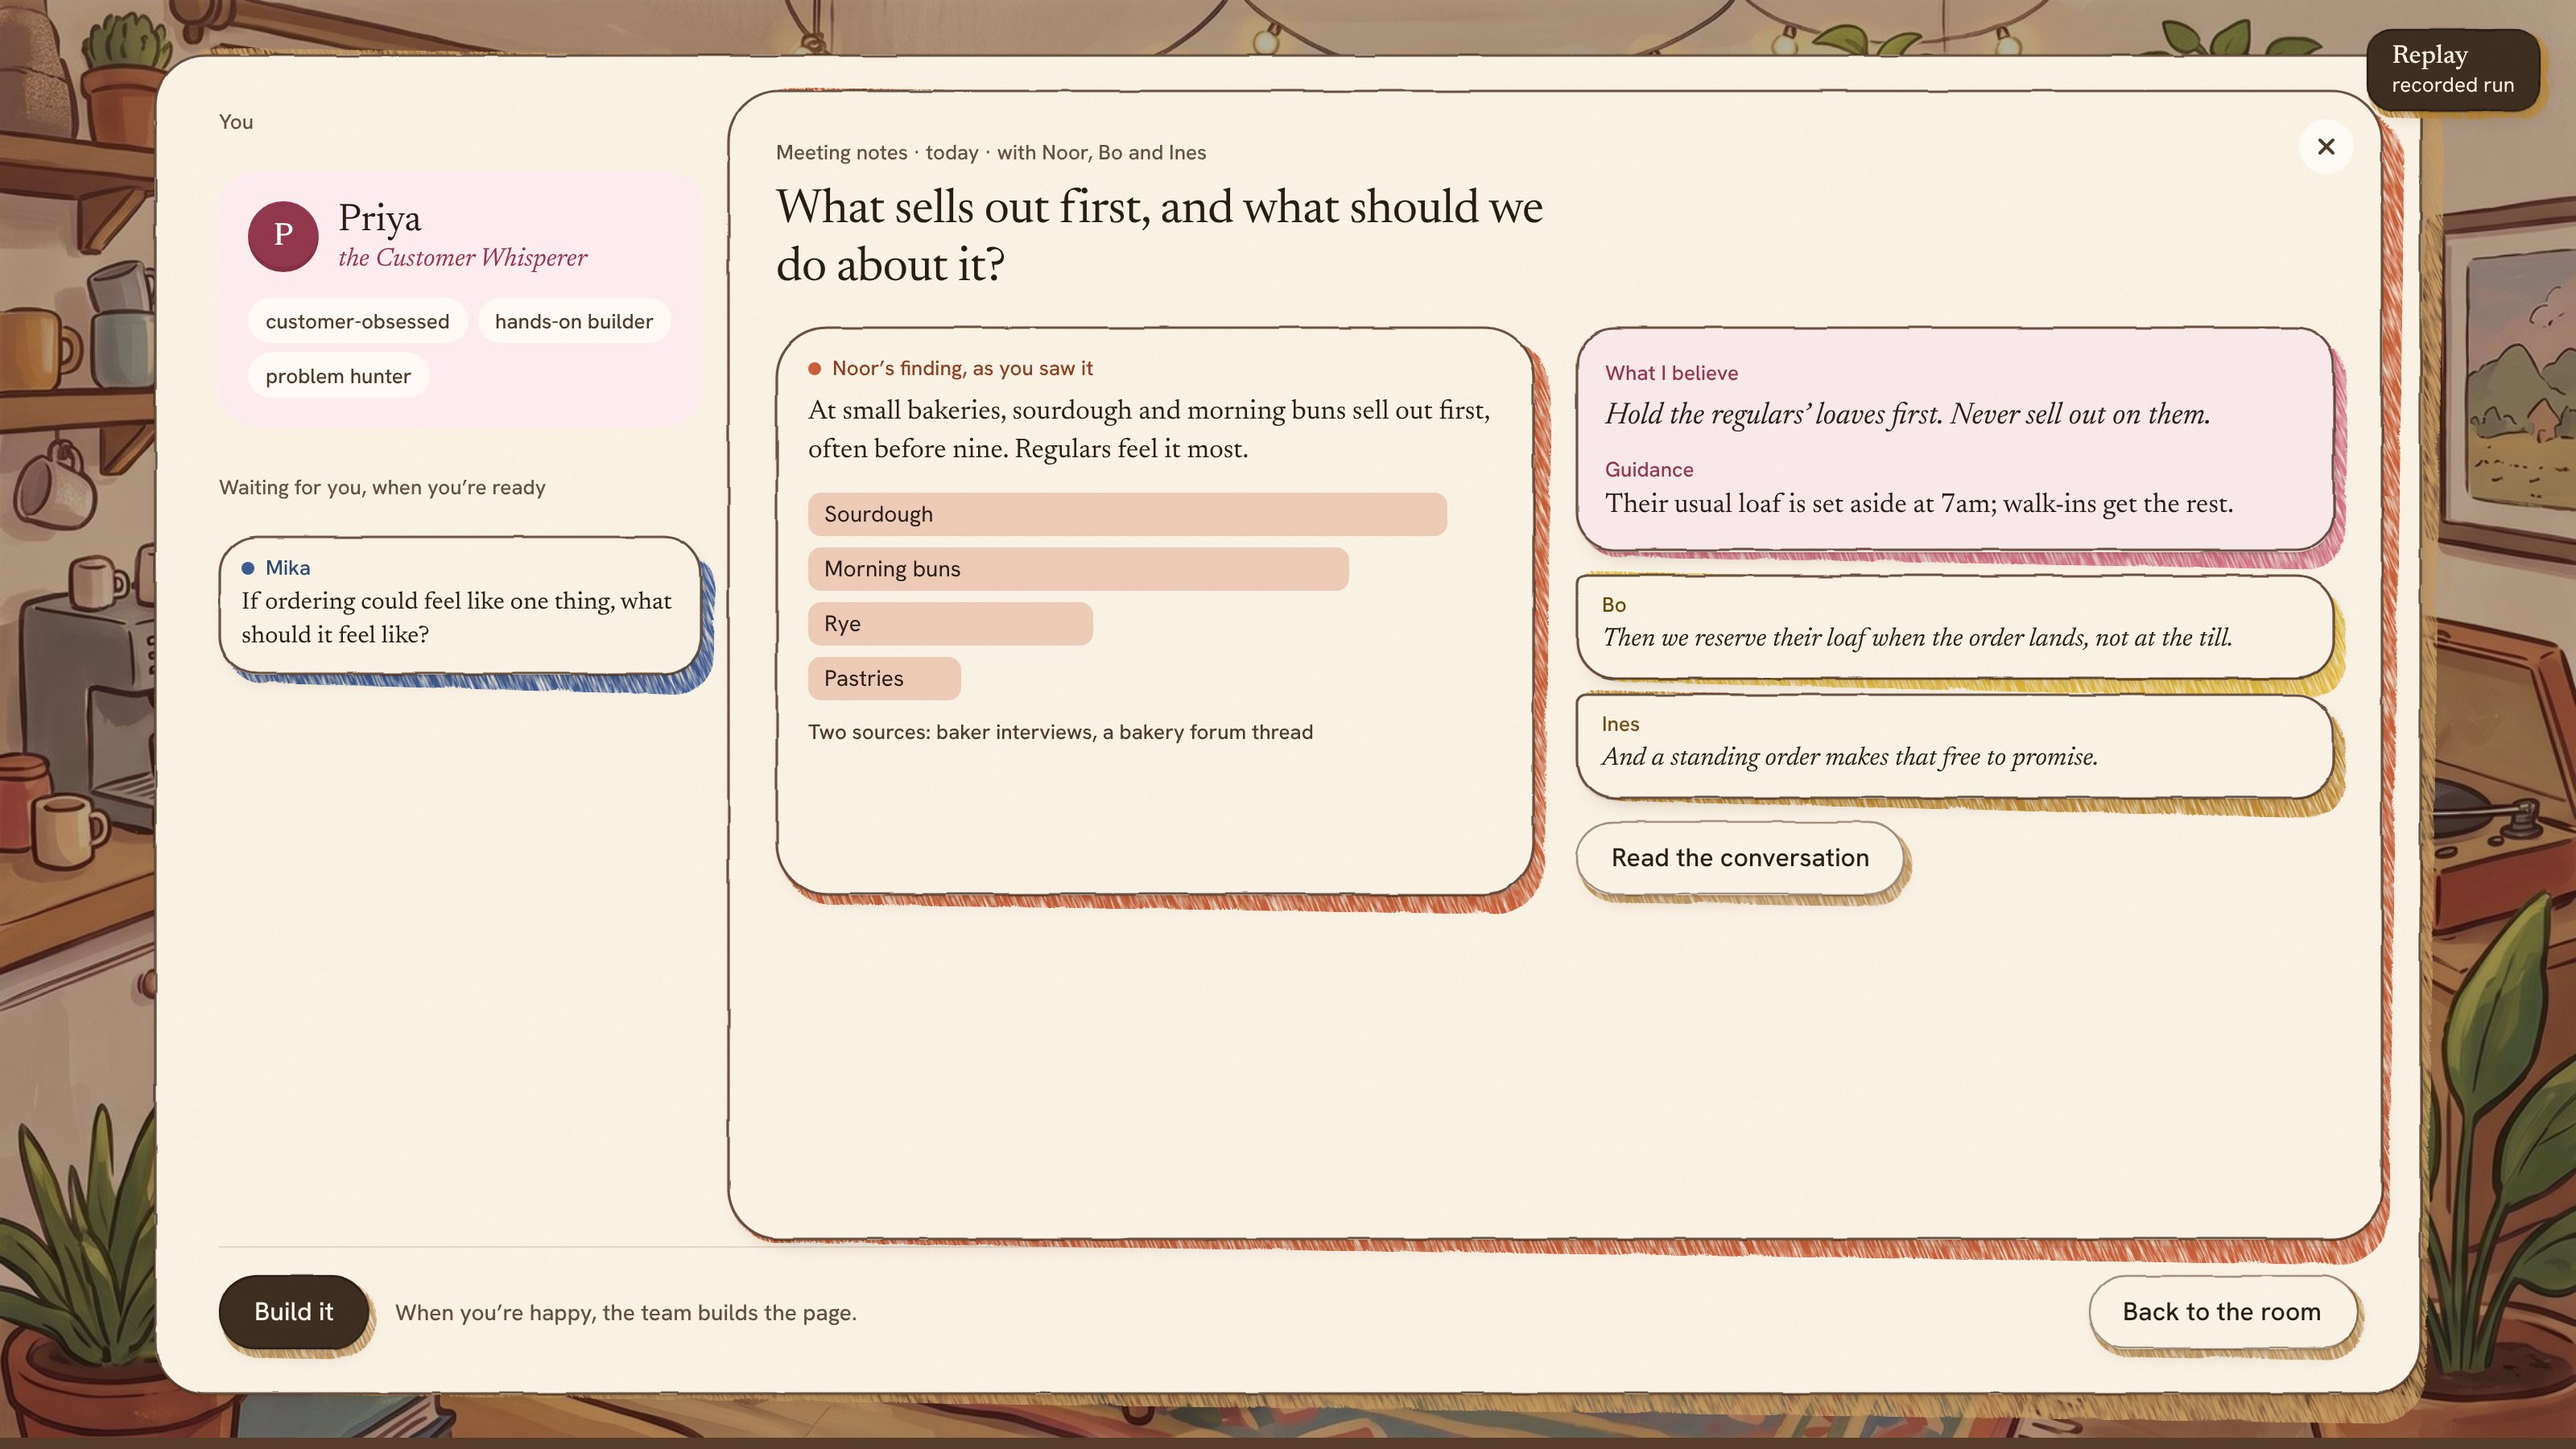
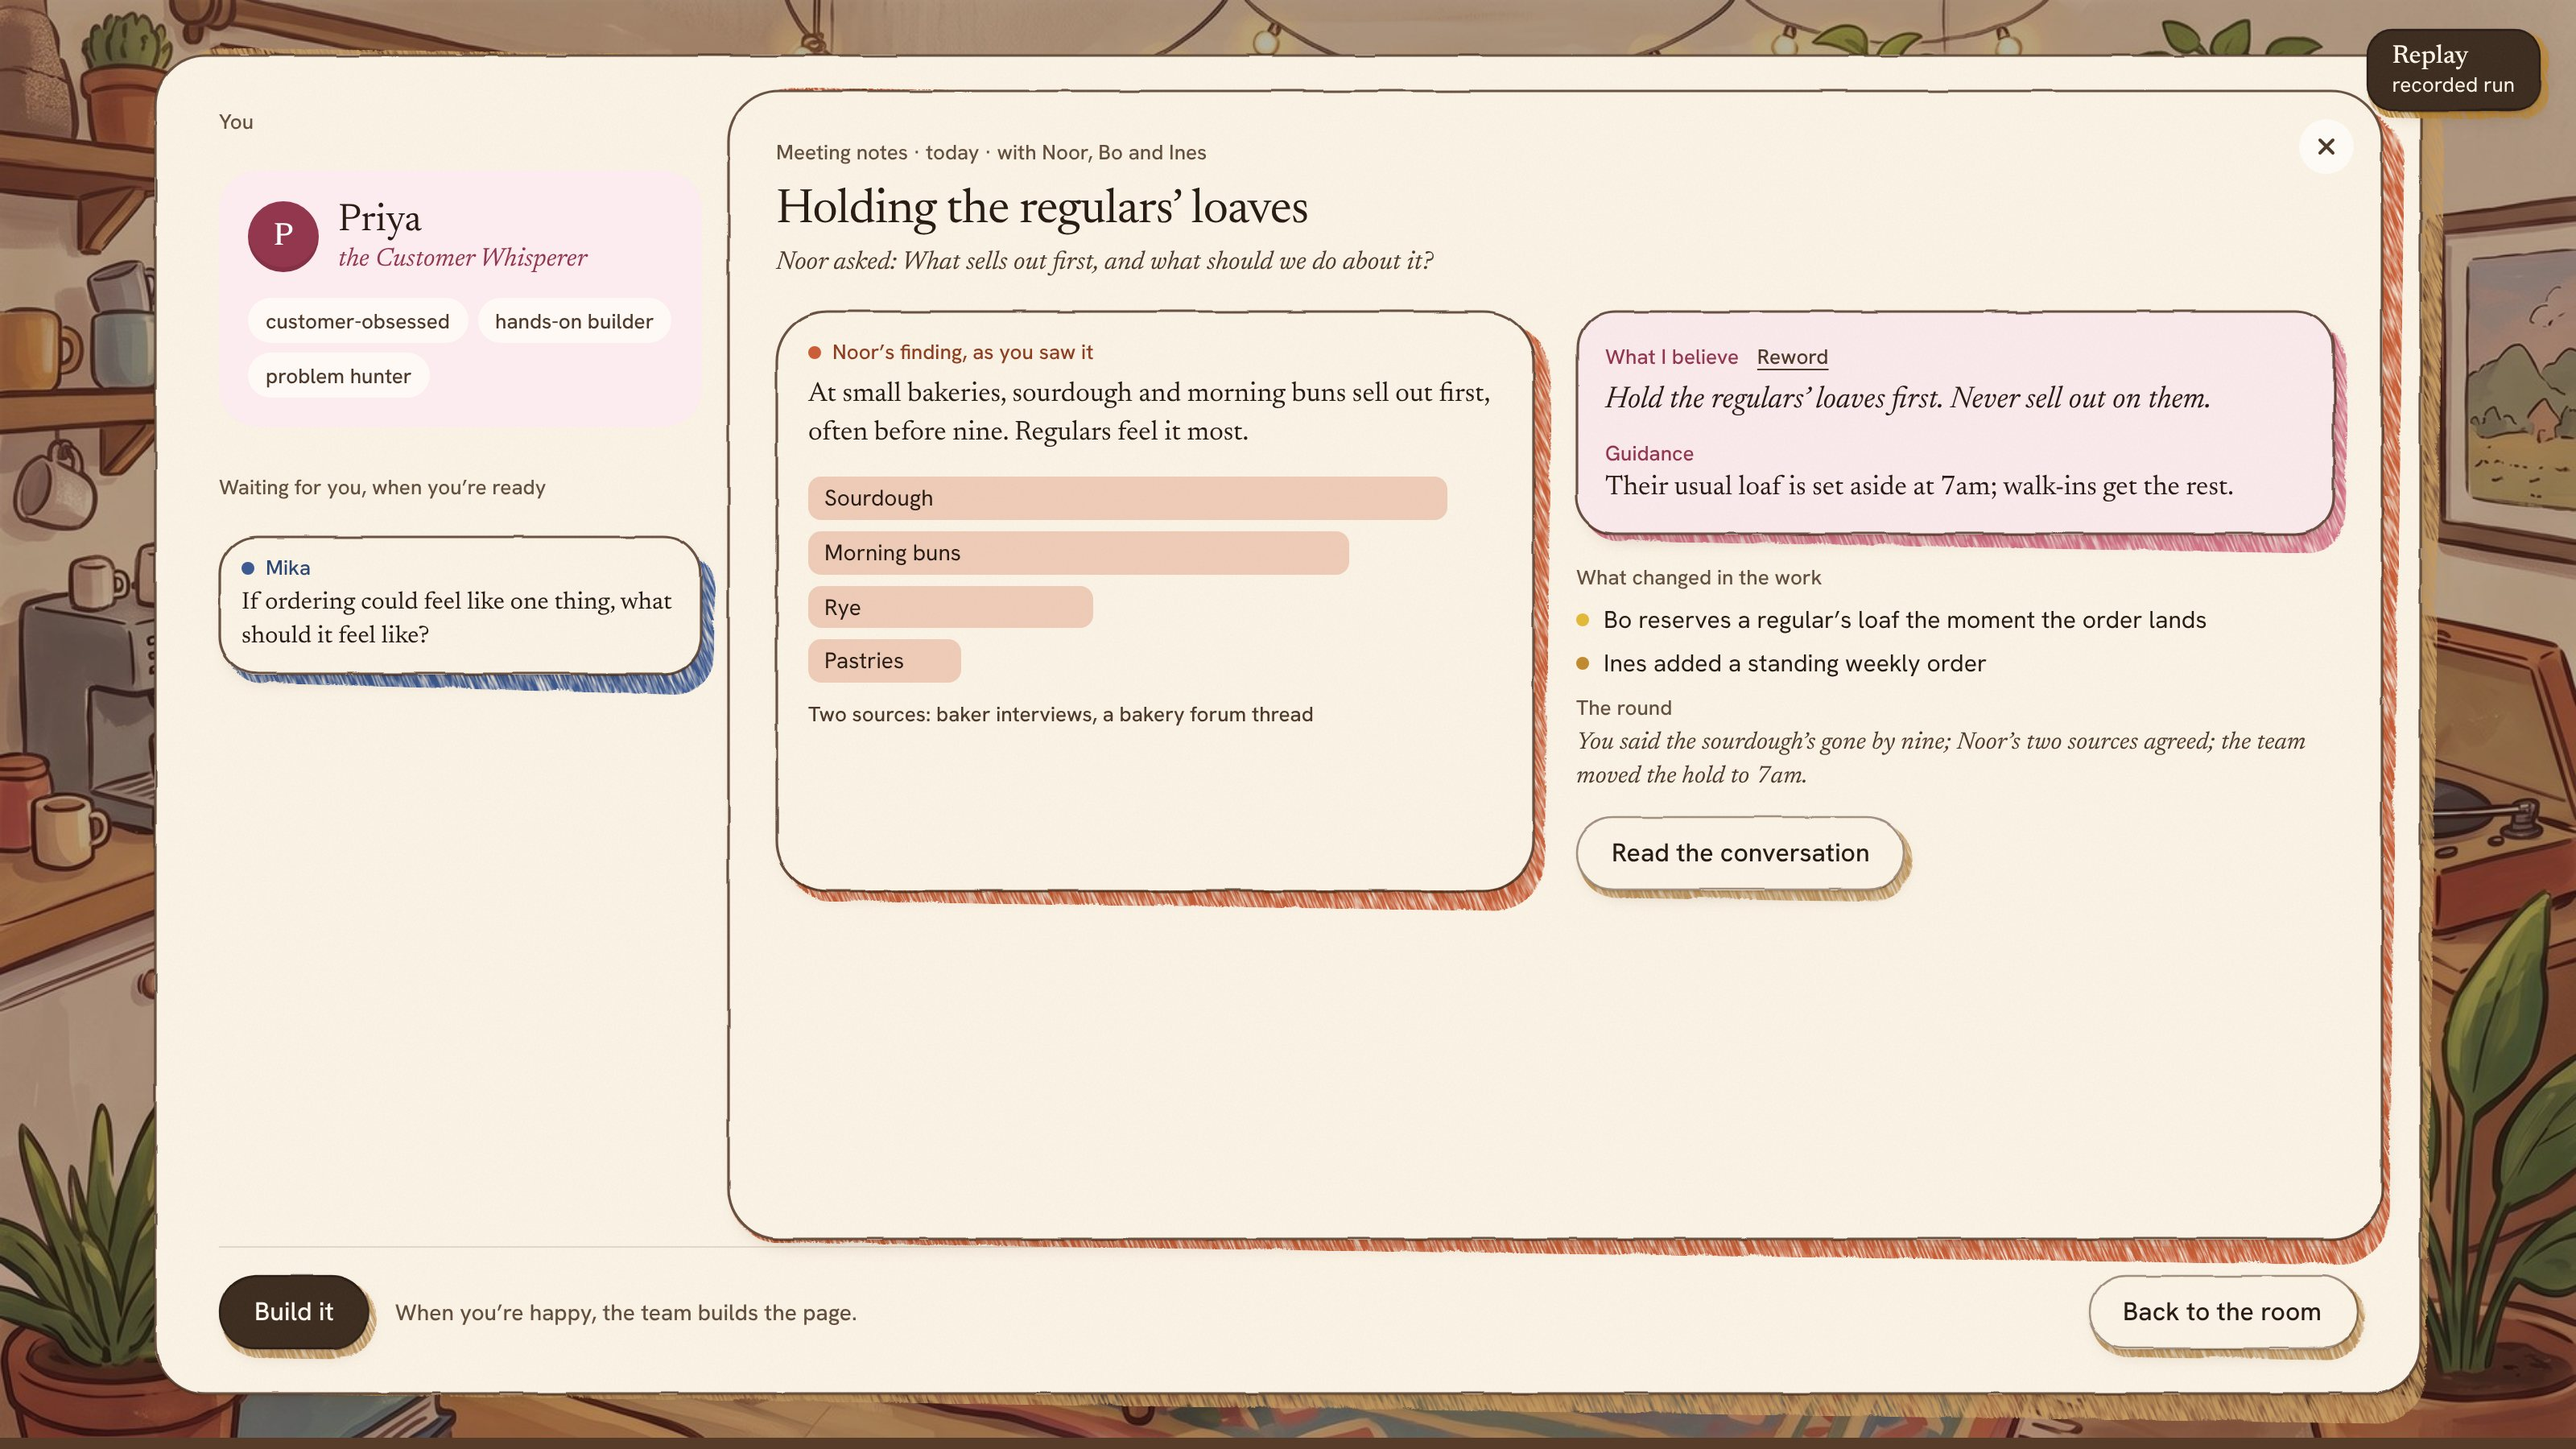
Meeting notes: match the wrap-up page's shape (title in her words, source, belief, Open; what changed, the round, reword)
Claude-Session: https://claude.ai/code/session_013ka3w4mYCjZQ4UZXpyjYjQ

Changed region(s): [[0.3125, 0.2178, 0.9375, 0.6533], [0.2812, 0.1244, 0.5938, 0.5289], [0.875, 0.2178, 0.9062, 0.2489]]

diff --git a/public/looks/comps/her-seat-ink.html b/public/looks/comps/her-seat-ink.html
@@ -107,14 +107,25 @@ html, body { margin: 0; background: #2B1F17; }
 .mnote .thumb.journey { grid-template-columns: repeat(3, 1fr); } .mnote .thumb.journey i { border-radius: 3px; background: rgba(212,114,136,.35); }
 .mnote .thumb.journey i:nth-child(n+3) { background: rgba(84,58,38,.14); }
 .mnote .thumb.finding i { height: 5px; border-radius: 3px; background: var(--c); align-self: center; } .mnote .thumb.finding i:nth-child(2) { width: 80%; } .mnote .thumb.finding i:nth-child(3) { width: 45%; }
+.mnote { grid-template-columns: 56px 1fr auto !important; }
 .mnote .mt { display: flex; flex-direction: column; gap: 4px; min-width: 0; }
-.mnote .q { font: 400 15px/1.3 var(--ip-serif); }
+.mnote .title { display: flex; align-items: center; gap: 7px; font: 400 17px/1.2 var(--ip-serif); }
+.mnote .title .cd { width: 9px; height: 9px; border-radius: 50%; background: var(--c); flex: none; }
+.mnote .open { align-self: center; font: 500 13px/1 var(--ip-sans); color: var(--ip-ink-2); padding: 7px 10px; border-radius: 999px; background: var(--ip-inset); }
+.mopen .reword { margin-left: 8px; border: 0; background: none; padding: 0; font: 500 13px/1 var(--ip-sans); color: var(--ip-ink-2); text-decoration: underline; text-underline-offset: 3px; cursor: pointer; }
+.mopen .changed { width: 100%; }
+.mopen .changed ul { margin: 6px 0 0; padding: 0; list-style: none; display: grid; gap: 6px; }
+.mopen .changed li { display: flex; gap: 9px; font: 400 15px/1.35 var(--ip-sans); }
+.mopen .changed li::before { content: ''; width: 8px; height: 8px; margin-top: 6px; border-radius: 50%; background: var(--c); flex: none; }
+.mopen .round { margin: 4px 0 0; font: italic 400 15px/1.4 var(--ip-serif); color: var(--ip-ink-2); }
 .mnote .bel { font: italic 400 14px/1.35 var(--ip-serif); color: var(--ip-her-t); padding: 4px 8px; border-radius: 8px; background: var(--ip-paper-her); align-self: flex-start; }
 .ws .mopen { position: absolute; left: 356px; top: 22px; right: 24px; bottom: 96px; z-index: 3; }
 .canvas.ink-paper .ws .mopen { padding: 26px 30px 26px; }
 .mopen .x { position: absolute; right: 18px; top: 18px; width: 34px; height: 34px; border-radius: 50%; border: 0; background: var(--ip-inset); cursor: pointer; display: grid; place-items: center; }
 .mopen .x svg { width: 12px; height: 12px; stroke: var(--ip-ink-2); stroke-width: 2; stroke-linecap: round; }
 .mopen h2 { margin: 8px 0 18px; font: 400 30px/1.2 var(--ip-serif); letter-spacing: -.012em; max-width: 30ch; }
+.mopen h2 { margin-bottom: 4px !important; }
+.mopen .asked { margin: 0 0 18px; font: italic 400 16px/1.35 var(--ip-serif); color: var(--ip-ink-2); }
 .mopen .mgrid { display: grid; grid-template-columns: 1fr 1fr; gap: 26px; }
 .canvas.ink-paper .mopen .snap { padding: 18px 20px; }
 .mopen .snap .lab { display: flex; align-items: center; gap: 7px; color: var(--t); } .mopen .snap .lab i { width: 8px; height: 8px; border-radius: 50%; background: var(--c); }
@@ -324,29 +335,30 @@ html, body { margin: 0; background: #2B1F17; }
       <h4>Meeting notes</h4>
       <!-- past reviews, newest first: the question, the work it was about, her one-line belief. Shape agreed with the wrap-up page. -->
       <button class="mnote" data-who="noor" id="mn1"><span class="thumb finding"><i></i><i></i><i></i></span>
-        <span class="mt"><span class="lab">Today · Noor’s finding</span><span class="q">What sells out first, and what should we do about it?</span>
-        <span class="bel">Hold the regulars’ loaves first. Never sell out on them.</span></span></button>
+        <span class="mt"><span class="title"><i class="cd"></i>Holding the regulars’ loaves</span><span class="lab">Noor’s finding · one round</span>
+        <span class="bel">Hold the regulars’ loaves first. Never sell out on them.</span></span><span class="open">Open</span></button>
       <button class="mnote" data-who="mika" id="mn2"><span class="thumb journey"><i></i><i></i><i></i><i></i><i></i><i></i></span>
-        <span class="mt"><span class="lab">Today · the rough journey</span><span class="q">What do people come to a bakery like this for that they can’t get at the supermarket?</span>
-        <span class="bel">People come for bread that’s still warm, and for being known.</span></span></button>
+        <span class="mt"><span class="title"><i class="cd"></i>What brings people in</span><span class="lab">Noor and Mika’s rough journey · one round</span>
+        <span class="bel">People come for bread that’s still warm, and for being known.</span></span><span class="open">Open</span></button>
     </div>
     <!-- one meeting note, opened: the full write-up -->
     <div class="card mopen hide" data-who="noor" id="mopen">
       <button class="x" id="mclose" aria-label="Back to your workspace"><svg viewBox="0 0 12 12"><path d="M2 2l8 8M10 2l-8 8"/></svg></button>
       <span class="lab">Meeting notes · today · with Noor, Bo and Ines</span>
-      <h2>What sells out first, and what should we do about it?</h2>
+      <h2>Holding the regulars’ loaves</h2>
+      <p class="asked">Noor asked: What sells out first, and what should we do about it?</p>
       <div class="mgrid">
         <div class="snap card" data-who="noor"><span class="lab"><i></i>Noor’s finding, as you saw it</span>
           <p>At small bakeries, sourdough and morning buns sell out first, often before nine. Regulars feel it most.</p>
           <div class="bars"><span style="--w:92%">Sourdough</span><span style="--w:78%">Morning buns</span><span style="--w:41%">Rye</span><span style="--w:22%">Pastries</span></div>
           <span class="lab src">Two sources: baker interviews, a bakery forum thread</span></div>
         <div class="wr">
-          <div class="take"><span class="lab">What I believe</span><p class="b">Hold the regulars’ loaves first. Never sell out on them.</p>
+          <div class="take"><span class="lab">What I believe <button class="reword">Reword</button></span><p class="b">Hold the regulars’ loaves first. Never sell out on them.</p>
             <span class="lab" style="margin-top:12px;display:block">Guidance</span><p>Their usual loaf is set aside at 7am; walk-ins get the rest.</p></div>
-          <div class="chimes">
-            <div class="bubble" data-who="bo"><b>Bo</b>Then we reserve their loaf when the order lands, not at the till.</div>
-            <div class="bubble" data-who="ines"><b>Ines</b>And a standing order makes that free to promise.</div>
-          </div>
+          <div class="changed"><span class="lab">What changed in the work</span>
+            <ul><li data-who="bo">Bo reserves a regular’s loaf the moment the order lands</li><li data-who="ines">Ines added a standing weekly order</li></ul>
+            <span class="lab" style="margin-top:10px;display:block">The round</span>
+            <p class="round">You said the sourdough’s gone by nine; Noor’s two sources agreed; the team moved the hold to 7am.</p></div>
           <button class="btn quiet">Read the conversation</button>
         </div>
       </div>
